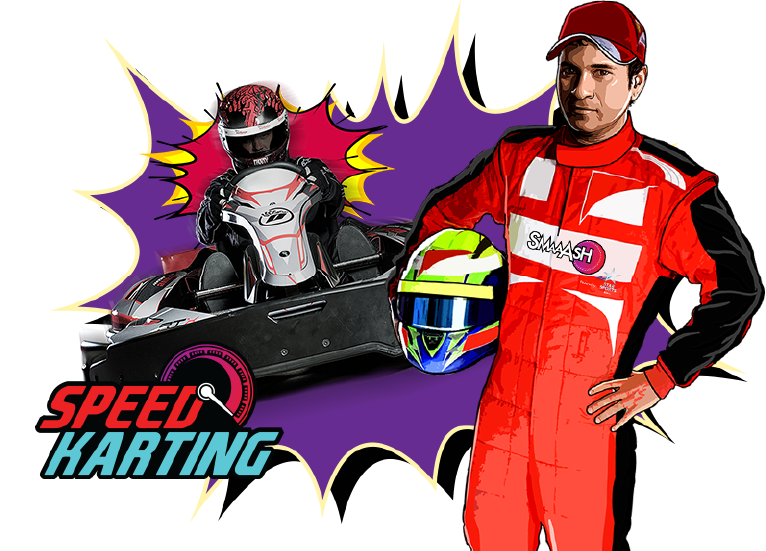
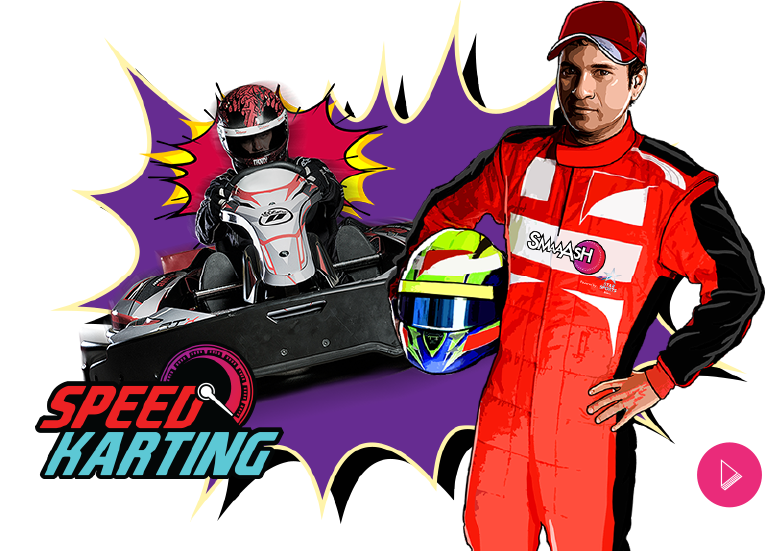
added image

diff --git a/sass/main.scss b/sass/main.scss
@@ -177,13 +177,8 @@ $menu-height: 80px !default;
     position: relative;
     .slidings {
       .custom-pagination{
-        @include position(absolute,null 20px 28px null);
+        @include position(absolute,null 20px 32px null);
         margin: 0;
-        .flex-active {
-          padding: 4px 10px 20px;
-          background-color: $brand-red;
-          color: #fff;
-         }
       li {
           float: left;
           padding: 10px 10px;
@@ -192,15 +187,21 @@ $menu-height: 80px !default;
           line-height: 1.42857;
           text-decoration: none;
           color: #000;
-          font-weight: 600;
+          font-weight: 700;
           background-color: #fff;
-          box-shadow: 2px -2px #000,3px 0px #000;
+          box-shadow: 2px -2px #000, 2px -1px #000;
           @include transform(skew(-10deg));
           @include transition(all 300ms ease);
           margin: 0 5px;
           border-radius: 0;
-          &:active, &:hover {
+          &:active, &:hover, &.flex-active {
             background-color: $brand-red;
+            color: white;
+          }
+          &.flex-active {
+            padding: 12.5px 10px;
+            margin-top: -5px;
+            margin-bottom: -5px;
           }
       }
     }
@@ -876,7 +877,17 @@ $menu-height: 80px !default;
     }
 }
 
-
+.know{
+  display: block;
+  color: #fff;
+  position: absolute;
+  top: 70%;
+  left: 30%;
+  transform: translate(-50%,-50%);
+  &:hover{
+    color: $brand-yellow;
+  }
+}
 .slant-box {
     @include transform(skew(15deg));
     padding: 15px 15px 0;
@@ -888,12 +899,14 @@ $menu-height: 80px !default;
     .mover {
         width: 90%;
         @include position( absolute,null null 0 0);
+        display: block;
     }
 }
 .reverse {
     .mover {
         right: 0;
         left: auto;
+
     }
     .slant-col {
         z-index: 1;

diff --git a/views/content/home.html b/views/content/home.html
@@ -72,6 +72,7 @@
     <div class="rays"></div>
     <div class="slant-box full-height">
         <div class="mover">
+          <a class="know" href="">Know More</a>
             <img src="img/home/aunty.png" class="img-responsive" alt="Speed Karting"/>
         </div>
     </div>
